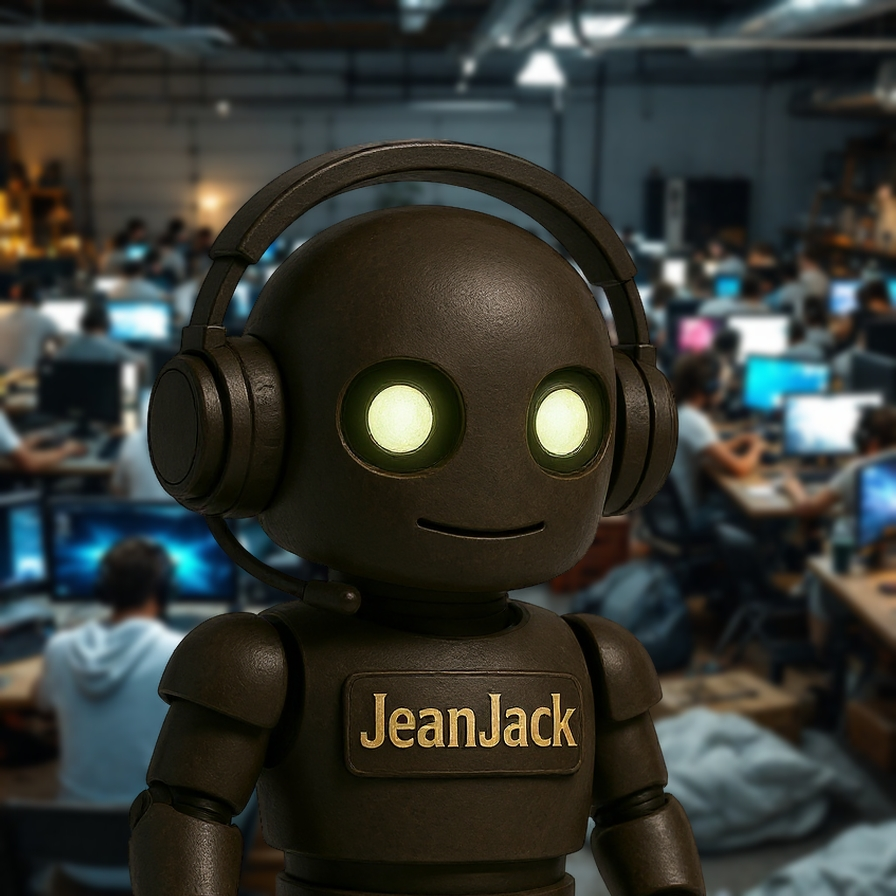
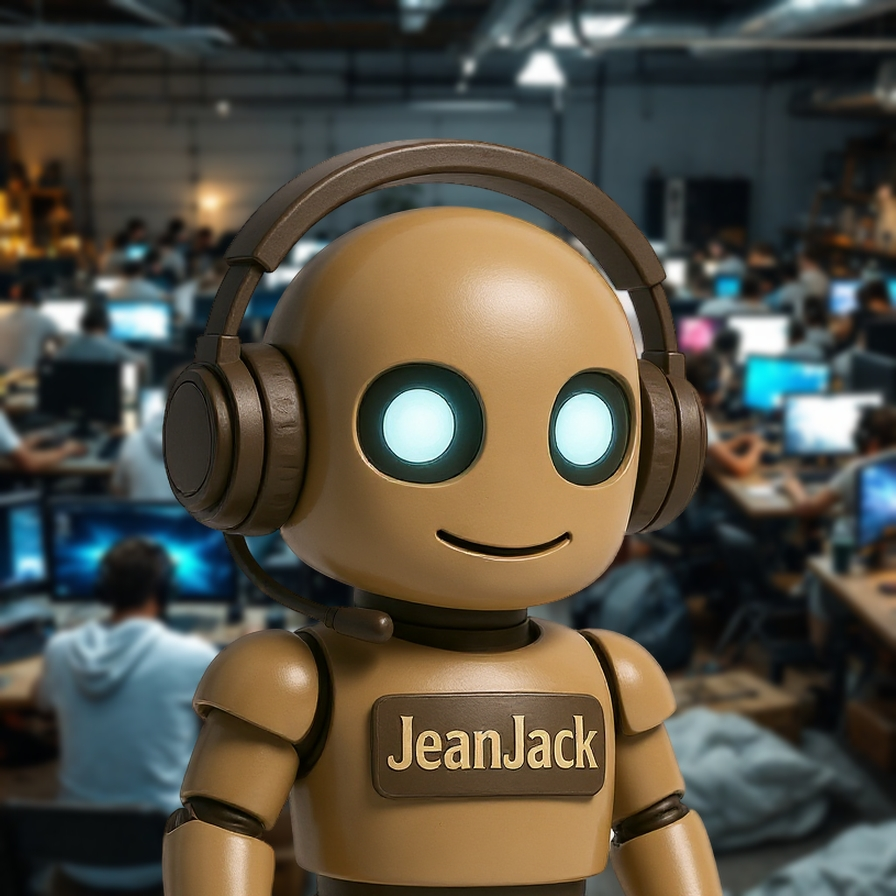
JeanJack: brighter evenly-lit regeneration, measured anchor, doc images
- raw.png regenerated from the user's reference (doctrine: new
  generation, no post-processing of the prior render): brighter
  medium warm-brown glossy metal, uniform soft lighting, no shadows
- crop.png re-extracted; auto anchor locks onto glossy metal
  highlights -> anchor measured and passed explicitly (0.4916,0.545)
- avatar recomposed: bright character, centered, 896px, 384 KB JPEG
  under the < 1 MB bound of this case
- prompt files now embed their reference images; character prompt
  documents the brighter-render constraint and its session rationale
- CI/README aligned (explicit anchor, no dx)

diff --git a/examples/character/JeanJack/prompt.md b/examples/character/JeanJack/prompt.md
@@ -3,40 +3,46 @@
 Generate `raw.png` for this character. Every rule below was validated
 during the jj-guild avatar session; nothing here is arbitrary.
 
+![Original reference](original.png)
+
 ## Reference
 
 `original.png` is the identity reference — the generated character
 must be recognizably the SAME character (same proportions, same head
 shape, same gold nameplate), not a crop of the reference.
 
-## Prompt used
+## Prompt used (edit of the user's reference, not of a prior
+generation)
 
-> Full-body character render of <JeanJack>, a friendly French gamer
-> robot: rounded dark-brown metal head and body, glowing round
-> yellow eyes, small subtle smirk (mouth closed, no teeth), no nose,
-> large gaming headset with an attached microphone reaching under
-> the mouth, a small gold nameplate on the chest reading
-> "JeanJack", slim three-finger robot hands, arms held slightly away
-> from the body, standing straight on a flat uniform light-grey
-> background. Consistent soft studio lighting, sharp focus, high
-> detail, no other objects, nothing held in the hands, nothing on
-> the back.
+> Regenerate this exact same robot character with a brighter, evenly
+> lit look. Keep the identity identical: same proportions and
+> rounded head shape, glowing round bright golden-yellow eyes, same
+> small subtle closed-mouth smirk (no teeth, no nose), same large
+> gaming headset with an attached microphone reaching under the
+> mouth, same small gold nameplate on the chest reading "JeanJack",
+> slim three-finger robot hands. Changes: remove the baguette and
+> everything held in his hands (empty hands held slightly away from
+> the body), make the body a brighter medium warm-brown glossy metal
+> with soft even highlights across the whole figure, completely
+> uniform bright soft studio lighting with no dark areas and no
+> shadows, full body visible head to feet, standing on a completely
+> flat uniform light-gray background. Sharp focus, high detail, no
+> other objects, no readable text other than the nameplate.
 
 ## Why each constraint (session-validated)
 
+- **brighter medium warm-brown glossy metal, uniform lighting** —
+  the first render was dark matte brown; against the LAN background
+  the character read too dark (user: "he is too dark, brighten him,
+  light him evenly"). The identity stays, the exposure changes;
 - **flat uniform background** — the crop step depends on it;
 - **full body visible** — the pipeline crops, the render must not;
 - **empty hands, nothing on the back** — held items (the baguette)
-  failed every generation attempt; user dropped them;
-- **no nose** — explicitly rejected by the user ("I never asked for
-  a nose");
+  failed every generation attempt; the user dropped them;
+- **no nose** — explicitly rejected by the user;
 - **small closed-mouth smirk** — every larger smile rendered creepy;
 - **microphone attached to the headset, ending under the mouth** —
   free-floating or chin-mounted microphones appeared repeatedly;
-- **eyes slightly high, small, round, luminous** — the user tuned
-  this for a more human face;
-- **arms away from the body** — keeps the thin-limb interstices the
-  crop needs;
 - **no readable text except the nameplate** — the model misspells
   text.
 
@@ -47,4 +53,5 @@ shape, same gold nameplate), not a crop of the reference.
 2. Full body visible, flat background, empty hands.
 3. One microphone only, attached to the headset.
 4. No nose, closed-mouth smirk.
-5. Resolution ≥ 1024 px (the raw is never downscaled).
+5. Bright, uniform lighting — no dark areas, no shadows on the body.
+6. Resolution ≥ 1024 px (the raw is never downscaled).

diff --git a/examples/avatar/prompt.md b/examples/avatar/prompt.md
@@ -5,6 +5,8 @@ Combines `examples/character/JeanJack/crop.png` and
 `examples/avatar/JeanJack.jpg`. Every parameter below was validated
 during the jj-guild avatar session; nothing here is arbitrary.
 
+![JeanJack avatar](JeanJack.jpg)
+
 ```bash
 # 1. background: square center-crop + Gaussian blur
 #    --blur 4: the scene stays readable as a LAN party while the
@@ -19,26 +21,28 @@ python tools/make_avatar.py cutout \
     --src examples/character/JeanJack/raw.png \
     --out examples/character/JeanJack/crop.png
 
-# 3. avatar: anchor-driven composition (auto-detection on the gold
-#    nameplate), size bound passed explicitly — it is a per-request
-#    constraint, never a universal default; ask the user when
-#    absent. This case asks for < 1 MB (999,424 bytes = 976 KiB).
-#    --dx 20: the character is posed slightly sideways; the anchor
-#    sits right of the face center, so a small right nudge restores
-#    visual centering.
+# 3. avatar: anchor-driven composition, size bound passed
+#    explicitly — it is a per-request constraint, never a universal
+#    default; ask the user when absent. This case asks for < 1 MB
+#    (999,424 bytes = 976 KiB).
+#    --anchor: measured plate position on this crop. The auto
+#    detector locks onto the glossy metal's warm highlights instead
+#    of the nameplate on this render — verify any auto-detected
+#    anchor, and pass the measured fractions when it drifts.
 python tools/make_avatar.py compose \
     --bg examples/scene/lan/background.png \
     --character examples/character/JeanJack/crop.png \
-    --out examples/avatar/JeanJack.png --dx 20 --max-kb 976
+    --out examples/avatar/JeanJack.png \
+    --anchor 0.4916,0.545 --max-kb 976
 ```
 
 ## Retained parameters (user-validated)
 
 | Parameter | Value | Reason |
 |---|---|---|
-| `--blur` | 4 | background readable, character detached; below 4 the PNG cannot fit the bound cleanly |
-| `--dx` | 20 | visual centering of the sideways-posed character |
-| `--brightness` | none | the validated scene is natively bright (mean luminance ≈ 72 after blur); brightness correction is allowed only on explicit user request |
+| `--blur` | 4 | background readable, character detached |
+| `--anchor` | 0.4916,0.545 | measured nameplate position; the glossy render fools the auto-detection |
+| `--brightness` | none | character and scene are both natively bright; brightness correction is allowed only on explicit user request |
 | `--max-kb` | 976 | the < 1 MB bound of THIS case; per-request, ask when absent |
 
 ## Size-bound behavior (per-request)

diff --git a/README.md b/README.md
@@ -96,13 +96,15 @@ python tools/make_avatar.py cutout \
     --src examples/character/JeanJack/raw.png \
     --out examples/character/JeanJack/crop.png
 
-# 3. compose the avatar — anchor auto-detected on the nameplate.
+# 3. compose the avatar — anchor on the nameplate (auto-detected,
+#    or measured and passed explicitly if the detection drifts).
 #    The size bound is a per-request constraint (ask the user when
 #    absent — there is no universal default).
 python tools/make_avatar.py compose \
     --bg examples/scene/lan/background.png \
     --character examples/character/JeanJack/crop.png \
-    --out examples/avatar/JeanJack.png --dx 20 --max-kb 976
+    --out examples/avatar/JeanJack.png \
+    --anchor 0.4916,0.545 --max-kb 976
 ```
 
 (The JeanJack case asks for < 1 MB: `--max-kb 976` = 999,424 bytes.)
@@ -144,7 +146,7 @@ assets:
   ambient light, light-colored clothing, chaotic table layout,
   blocking criteria (luminance ≥ 55, no letterbox);
 - [`examples/avatar/prompt.md`](examples/avatar/prompt.md)
-  — the validated combination recipe (blur 4, `--dx 20`,
+  — the validated combination recipe (blur 4, measured anchor,
   `< 1 MB` bound of the JeanJack case).
 
 Agent-facing criteria for both generations, the QA checklist and the

diff --git a/.agents/skills/avatar/SKILL.md b/.agents/skills/avatar/SKILL.md
@@ -133,7 +133,7 @@ avatar.build_avatar("scene/background.png", "character/crop.png", "avatar/Name.p
 |---|---|---|
 | `--headroom` | 0.15 | 15% of the frame free above the head |
 | `--plate-bottom` | 0.85 | the anchor (nameplate bottom) sits at 85% |
-| anchor | auto | detected on the gold nameplate; centering follows it, **never the arms** |
+| anchor | auto | detected on the gold nameplate; centering follows it, **never the arms**. VERIFY the detection: glossy warm metal highlights can fool it — pass the measured fractions (`--anchor cx,bottom`) when it drifts |
 | bottom edge | by construction | the body is cut flush, zero background gap |
 | `--size` | 896 | square canvas |
 | `--max-kb` | none | size bound in KiB — per-case, ask the user; PNG first, JPEG fallback under the bound (fail-closed) |

diff --git a/examples/scene/lan/prompt.md b/examples/scene/lan/prompt.md
@@ -1,5 +1,7 @@
 # Scene prompt — LAN party (raw generation)
 
+![LAN raw scene](raw.png)
+
 Generate `raw.png` for this scene. Every rule below was validated
 during the jj-guild avatar session; nothing here is arbitrary.
 
